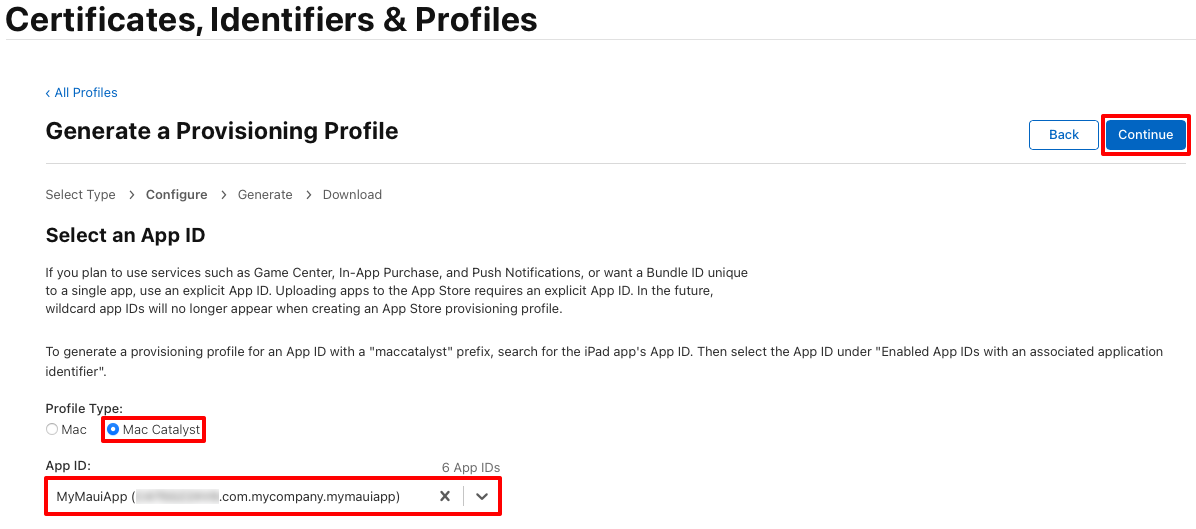
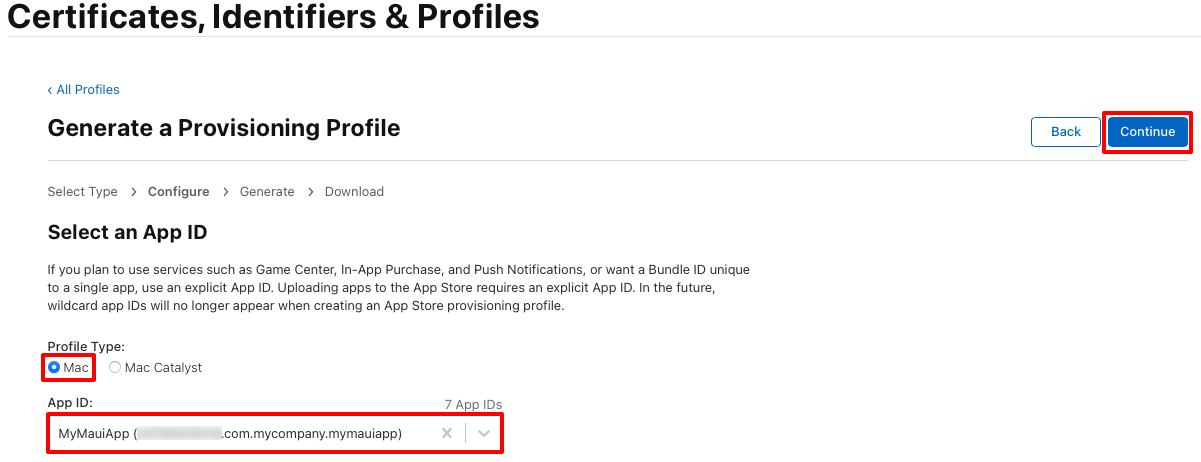
MAS profile type update (#1504)
* Change the profile type to Mac.

* Blur id.

* Edit.

diff --git a/docs/mac-catalyst/deployment/publish-app-store.md b/docs/mac-catalyst/deployment/publish-app-store.md
@@ -108,12 +108,13 @@ To create a provisioning profile for Mac App Store distribution:
 
     :::image type="content" source="media/publish-app-store/appstore-register-provisioning-profile.png" alt-text="Register a provisioning profile for app store distribution.":::
 
-1. In the **Generate a Provisioning Profile** page, select the **Mac Catalyst** radio button. Then, in the **App ID** drop-down, select the App ID that you previously created before clicking the **Continue** button:
+1. In the **Generate a Provisioning Profile** page, select the **Mac** radio button. Then, in the **App ID** drop-down, select the App ID that you previously created before clicking the **Continue** button:
 
     :::image type="content" source="media/publish-app-store/select-app-id.png" alt-text="Select your App ID.":::
 
+    <!-- Commented out because only valid when the Mac Catalyst radio button is selected.
     > [!NOTE]
-    > The App ID will be in the **Enabled App IDs with an associated application identifier** section.
+    > The App ID will be in the **Enabled App IDs with an associated application identifier** section. -->
 
 1. In the **Generate a Provisioning Profile** page, select the radio button that corresponds to your distribution certificate before clicking the **Continue** button:
 
